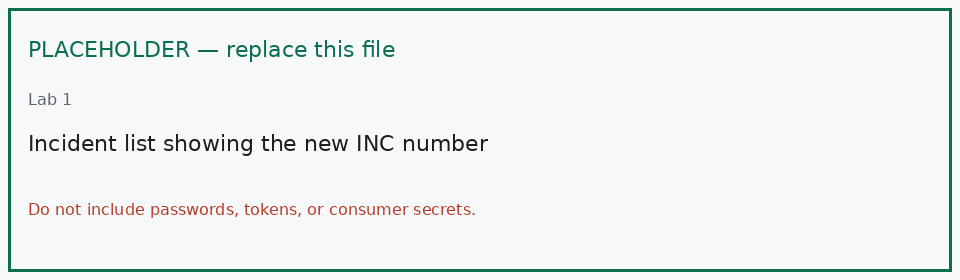
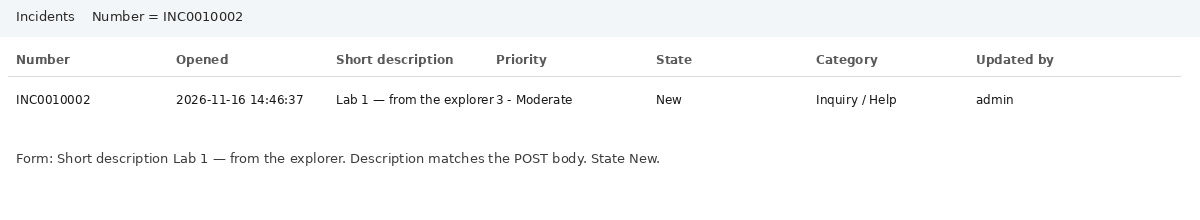
Record Lab 1 proof: 201 Created and INC0010002. Token covered.

diff --git a/README.MD b/README.MD
@@ -31,18 +31,18 @@ This README is the page for now. A GitHub Pages site can be added later from the
 |------|-----------------|
 | `screenshots/01-explorer-setup.png` | Captured. Namespace `now`, API Name Table API, tableName Incident (`incident`). |
 | `screenshots/01-explorer-body.png` | Captured. Raw body filled, before Send. Request format `application/json`, authorization Send as me. |
-| `screenshots/01-explorer-201.png` | Still needed. The same request after Send, status 201, INC number visible. |
-| `screenshots/01-incident-list.png` | Still needed. Incident list with that same number. |
+| `screenshots/01-explorer-201.png` | Captured. Status 201 Created. Number `INC0010002`. sys_id `5dba2bdac3e8df54310abf0d050131a5`. Session token covered. |
+| `screenshots/01-incident-list.png` | Captured. List and form show `INC0010002`, short description "Lab 1 — from the explorer", state New. |
 
-The empty Request Body frame was skipped. It does not show a request or a result.
+The empty Request Body frame was skipped. After Send, the browser asks "Modifying data, confirm to continue". Click OK. That dialog is expected. It is not the proof. The proof is the 201 and the Incident row.
 
 ![Explorer namespace now, table incident](screenshots/01-explorer-setup.png)
 
 ![Explorer raw body before send](screenshots/01-explorer-body.png)
 
-![Explorer 201 still needed](screenshots/01-explorer-201.png)
+![201 Created, INC0010002, token covered](screenshots/01-explorer-201.png)
 
-![Incident list still needed](screenshots/01-incident-list.png)
+![Incident list INC0010002](screenshots/01-incident-list.png)
 
 ## Lab 2 — Salesforce to ServiceNow
 
